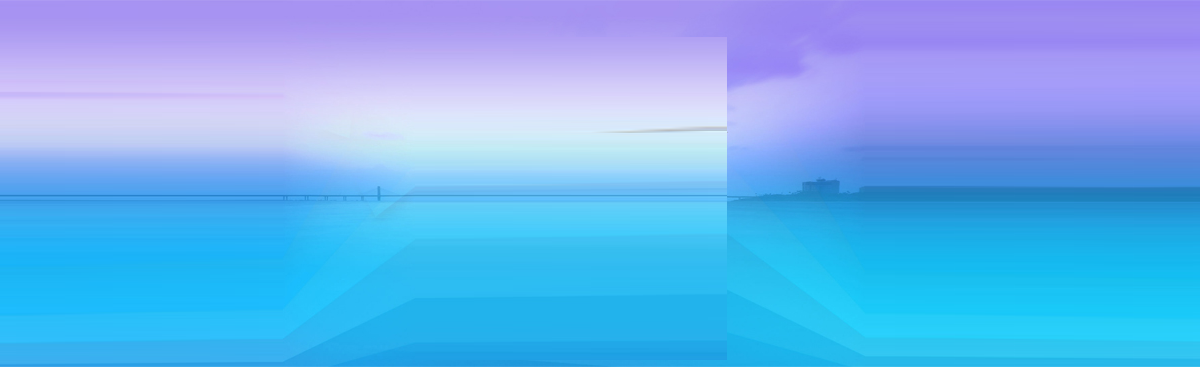
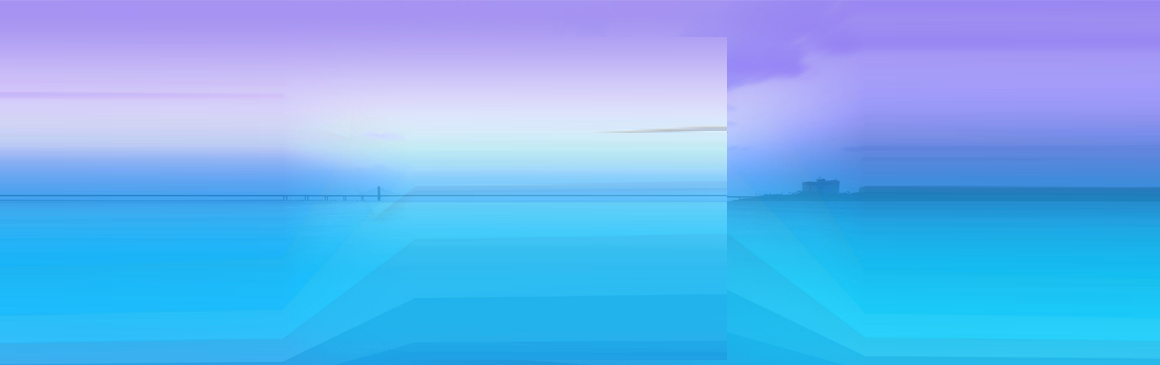
hero background

Changed region(s): [[0.2172, 0.1205, 0.7448, 0.6329], [0.7138, 0.9945, 0.7448, 1.0], [0.6828, 0.1808, 0.7138, 0.211]]

diff --git a/css/pages/home.css b/css/pages/home.css
@@ -15,6 +15,14 @@
 /* custom style goes below this comment line */
 
 /* HERO-start */
+section.bg-main {
+    background-image: url(../../img/background.png);
+    background-size: cover;
+    background-position: center;
+    background-attachment: fixed;
+    min-height: 100vh;
+}
+
 .hero {
     display: flex;
     flex-direction: column;
